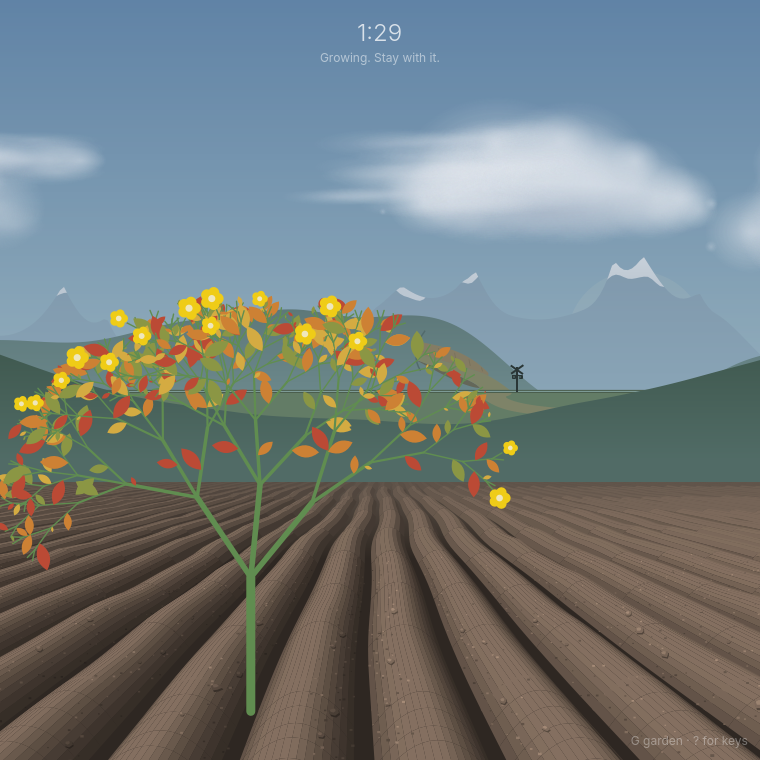
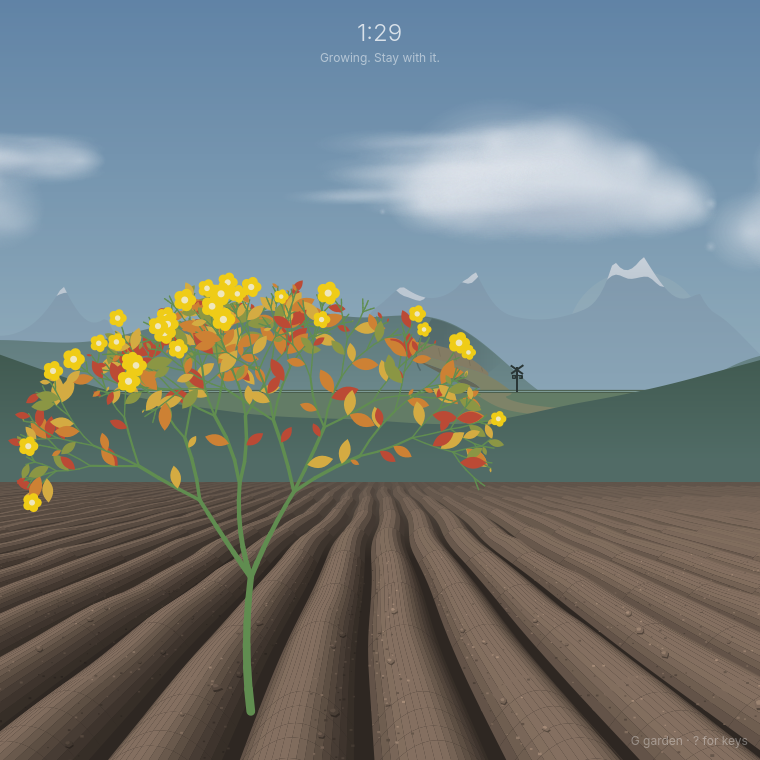
Shade the slope above the cut, and bow and taper the stems

Changed region(s): [[0.0, 0.3632, 0.6961, 0.7868], [0.3026, 0.7868, 0.3632, 0.9079]]

diff --git a/src/Train.qml b/src/Train.qml
@@ -244,12 +244,61 @@ Item {
                 ctx.lineTo(topPt.x + (footPt.x - topPt.x) * 0.7 + 1, topPt.y + (footPt.y - topPt.y) * 0.75)
                 ctx.stroke()
             }
-            // Where the road curves around the shoulder, the near flank of the
-            // hill comes across it, and it passes out of sight.
+            // The hillside above the cut lies farther up the slope and turns a
+            // little away from us, so it is a shade darker than the slope below
+            // the road. It runs up to the skyline of the ridge.
+            function hash(i, seed) {
+                var v = Math.sin(i * 127.1 + seed * 311.7) * 43758.5453
+                return v - Math.floor(v)
+            }
+            function noise(v, seed) {
+                var i = Math.floor(v), f = v - i
+                var u = f * f * (3 - 2 * f)
+                return hash(i, seed) * (1 - u) + hash(i + 1, seed) * u
+            }
+            // The same ridge line as the hills draw (Hills.qml, mid()).
+            function ridgeY(px) {
+                var u = px / W
+                var shoulder = (u - 0.6) / 0.12
+                var rise = H * (0.035 + 0.15 * noise(u * 2.6 + 5, 4)) + H * 0.025 * noise(u * 8.2, 5)
+                           + H * 0.07 * Math.exp(-shoulder * shoulder)
+                return H * root.horizon - rise
+            }
             var bend = curve(far0, far1, far2, far3, 0.86)
             var span = H * 0.034
-            // Coloured exactly as the hillside around it is: fading toward the
-            // sky colour at its foot, as the ridges behind are painted.
+            // The fold of the shoulder: from the skyline down across the road's
+            // last stretch, curving as the hill rounds away from us.
+            var foldTop = { x: bend.x + W * 0.022, y: ridgeY(bend.x + W * 0.022) + 1 }
+            var fold0 = { x: bend.x + W * 0.012, y: bend.y - span }
+            var fold1 = { x: bend.x - W * 0.004, y: bend.y - span * 0.4 }
+            var fold2 = { x: bend.x - W * 0.002, y: bend.y + span * 0.2 }
+            var fold3 = { x: bend.x + W * 0.006, y: bend.y + span * 0.55 }
+            function traceFold() {
+                ctx.lineTo(fold0.x, fold0.y)
+                ctx.bezierCurveTo(fold1.x, fold1.y, fold2.x, fold2.y, fold3.x, fold3.y)
+            }
+
+            // The slope above the cut, darker, fading out toward the crossing so
+            // it has no edge there; its left side is hidden under the flank.
+            var leftX = bend.x - W * 0.02, rightX = cutTop[0].x
+            var shade = ctx.createLinearGradient(rightX - W * 0.06, 0, rightX + W * 0.02, 0)
+            shade.addColorStop(0, Qt.rgba(0.02, 0.03, 0.03, 0.15))
+            shade.addColorStop(1, Qt.rgba(0.02, 0.03, 0.03, 0))
+            ctx.fillStyle = shade
+            ctx.beginPath()
+            ctx.moveTo(cutTop[0].x, cutTop[0].y)
+            for (var d2 = 1; d2 < cutTop.length; d2++)
+                ctx.lineTo(cutTop[d2].x, cutTop[d2].y)
+            ctx.lineTo(leftX, cutTop[cutTop.length - 1].y)
+            for (var sx = leftX; sx <= rightX + W * 0.02; sx += 3)
+                ctx.lineTo(sx, ridgeY(sx) + 1)
+            ctx.closePath()
+            ctx.fill()
+
+            // Where the road curves around the shoulder, the near flank of the
+            // hill comes across it, and it passes out of sight. The flank runs
+            // up to the skyline, coloured exactly as the hillside around it:
+            // fading toward the sky colour at its foot, as the ridges are painted.
             var y0 = H * root.horizon
             var flank = ctx.createLinearGradient(0, y0 - H * 0.2, 0, y0 + 2)
             flank.addColorStop(0, root.hillColor)
@@ -257,21 +306,21 @@ Item {
                                           root.hillColor.g + (root.hazeColor.g - root.hillColor.g) * 0.4,
                                           root.hillColor.b + (root.hazeColor.b - root.hillColor.b) * 0.4, 1))
             ctx.fillStyle = flank
+            var farLeft = bend.x - W * 0.08
             ctx.beginPath()
-            ctx.moveTo(bend.x + W * 0.012, bend.y - span)
-            ctx.bezierCurveTo(bend.x - W * 0.004, bend.y - span * 0.4, bend.x - W * 0.002, bend.y + span * 0.2,
-                              bend.x + W * 0.006, bend.y + span * 0.55)
-            ctx.lineTo(bend.x - W * 0.08, bend.y + span * 0.55)
-            ctx.lineTo(bend.x - W * 0.08, bend.y - span)
+            ctx.moveTo(foldTop.x, foldTop.y)
+            traceFold()
+            ctx.lineTo(farLeft, fold3.y)
+            for (var fx = farLeft; fx <= foldTop.x; fx += 3)
+                ctx.lineTo(fx, ridgeY(fx) + 1)
             ctx.closePath()
             ctx.fill()
-            // A soft shadow along the fold of the shoulder.
+            // A soft shadow along the fold.
             ctx.strokeStyle = Qt.darker(root.hillColor, 1.12)
             ctx.lineWidth = Math.max(1, H * 0.002)
             ctx.beginPath()
-            ctx.moveTo(bend.x + W * 0.012, bend.y - span)
-            ctx.bezierCurveTo(bend.x - W * 0.004, bend.y - span * 0.4, bend.x - W * 0.002, bend.y + span * 0.2,
-                              bend.x + W * 0.006, bend.y + span * 0.55)
+            ctx.moveTo(foldTop.x, foldTop.y)
+            traceFold()
             ctx.stroke()
             // Ballast, then a rail catching what light there is on top of it.
             line()

diff --git a/src/GrowingPlant.qml b/src/GrowingPlant.qml
@@ -74,6 +74,9 @@ Canvas {
     // takes an equal share of the rest, so the last twigs finish as time ends.
     function build() {
         var r = random(seed)
+        // The bow of each stem comes from a generator of its own, so adding it
+        // left every plant's branching exactly as it was.
+        var bends = random((seed ^ 0x5bd1e995) >>> 0)
         var segs = [], ends = []
         var maxDepth = 6
         var unit = height
@@ -91,8 +94,18 @@ Canvas {
                 for (var i = 0; i < count; i++)
                     leaves.push({ f: 0.35 + r() * 0.6, side: r() < 0.5 ? -1 : 1, size: 0.75 + r() * 0.5, tone: r() })
             }
-            segs.push({ x: x, y: y, ex: ex, ey: ey, t0: t0, t1: t1,
-                        width: Math.max(1.4 * scale, 9 * scale * Math.pow(0.62, depth)), leaves: leaves })
+            // No stem grows dead straight: each one bows a little to one side,
+            // the main stem least. The control point sits off the middle.
+            var lean = bends()
+            var bow = depth === 0
+                    ? (lean < 0.5 ? -1 : 1) * (0.05 + 0.06 * Math.abs(lean - 0.5) * 2) * length
+                    : (lean - 0.5) * 0.22 * length
+            var cx = (x + ex) / 2 - Math.sin(angle) * bow
+            var cy = (y + ey) / 2 + Math.cos(angle) * bow
+            var w = Math.max(1.4 * scale, 9 * scale * Math.pow(0.62, depth))
+            // The main stem and first branches thin toward their tips.
+            segs.push({ x: x, y: y, cx: cx, cy: cy, ex: ex, ey: ey, t0: t0, t1: t1,
+                        width: w, tipWidth: depth <= 1 ? w * 0.68 : w, leaves: leaves })
             if (depth === maxDepth) {
                 // Most twigs stay leafy; only a few carry a flower.
                 if (r() < 0.1)
@@ -114,6 +127,18 @@ Canvas {
         builtHeight = height
         builtBase = base
         builtRootX = rootX
+    }
+
+    // A point along a stem, which is a gentle curve, t from 0 at its foot to 1.
+    function along(s, t) {
+        var u = 1 - t
+        return { x: u * u * s.x + 2 * u * t * s.cx + t * t * s.ex, y: u * u * s.y + 2 * u * t * s.cy + t * t * s.ey }
+    }
+    // Which way the stem is heading at t.
+    function headingAt(s, t) {
+        var dx = 2 * (1 - t) * (s.cx - s.x) + 2 * t * (s.ex - s.cx)
+        var dy = 2 * (1 - t) * (s.cy - s.y) + 2 * t * (s.ey - s.cy)
+        return Math.atan2(dy, dx)
     }
 
     function drawLeaf(ctx, x, y, angle, size, color) {
@@ -166,23 +191,31 @@ Canvas {
             var p = clamp((progress - s.t0) / (s.t1 - s.t0))
             if (p <= 0)
                 continue
-            ctx.beginPath()
-            ctx.moveTo(s.x, s.y)
-            ctx.lineTo(s.x + (s.ex - s.x) * p, s.y + (s.ey - s.y) * p)
-            ctx.lineWidth = s.width
+            // The stem as far as it has grown, in short pieces so a tapering one
+            // can thin as it goes; round ends hide the joins.
+            var pieces = s.tipWidth < s.width ? 6 : 3
             ctx.strokeStyle = stem
-            ctx.stroke()
+            for (var k = 0; k < pieces; k++) {
+                var ta = p * k / pieces, tb = p * (k + 1) / pieces
+                var a = along(s, ta), b = along(s, tb)
+                ctx.beginPath()
+                ctx.moveTo(a.x, a.y)
+                ctx.lineTo(b.x, b.y)
+                ctx.lineWidth = s.width + (s.tipWidth - s.width) * (ta + tb) / 2
+                ctx.stroke()
+            }
             if (season === "winter" && !wilted) {
                 // Frost rimes the upper edge of each branch.
-                ctx.beginPath()
-                ctx.moveTo(s.x, s.y - s.width * 0.25)
-                ctx.lineTo(s.x + (s.ex - s.x) * p, s.y + (s.ey - s.y) * p - s.width * 0.25)
-                ctx.lineWidth = Math.max(1, s.width * 0.3)
                 ctx.strokeStyle = lit("#e6f1f4")
+                ctx.lineWidth = Math.max(1, s.width * 0.3)
+                ctx.beginPath()
+                for (var fk = 0; fk <= pieces; fk++) {
+                    var fp = along(s, p * fk / pieces)
+                    fk === 0 ? ctx.moveTo(fp.x, fp.y - s.width * 0.25) : ctx.lineTo(fp.x, fp.y - s.width * 0.25)
+                }
                 ctx.stroke()
             }
 
-            var heading = Math.atan2(s.ey - s.y, s.ex - s.x)
             for (var j = 0; j < s.leaves.length; j++) {
                 var l = s.leaves[j]
                 // Winter strips most of the leaves.
@@ -191,10 +224,9 @@ Canvas {
                 var grown = clamp((p - l.f) * 4)
                 if (grown <= 0)
                     continue
-                var lx = s.x + (s.ex - s.x) * l.f
-                var ly = s.y + (s.ey - s.y) * l.f
+                var at = along(s, l.f)
                 var tilt = wilted ? 1.5 : 0.9
-                drawLeaf(ctx, lx, ly, heading + l.side * tilt, height * 0.035 * l.size * grown * leafScale, wilted ? wiltedLeaf : lit(leafColor(l.tone)))
+                drawLeaf(ctx, at.x, at.y, headingAt(s, l.f) + l.side * tilt, height * 0.035 * l.size * grown * leafScale, wilted ? wiltedLeaf : lit(leafColor(l.tone)))
             }
         }
 

diff --git a/src/main.cpp b/src/main.cpp
@@ -22,7 +22,7 @@
 int main(int argc, char *argv[]) {
     QGuiApplication app(argc, argv);
     app.setApplicationName("grove");
-    app.setApplicationVersion("0.6.1");
+    app.setApplicationVersion("0.6.2");
 
     // Matches the window to grove.desktop, so the compositor (Wayland app_id)
     // and the launcher pick up the installed icon.
